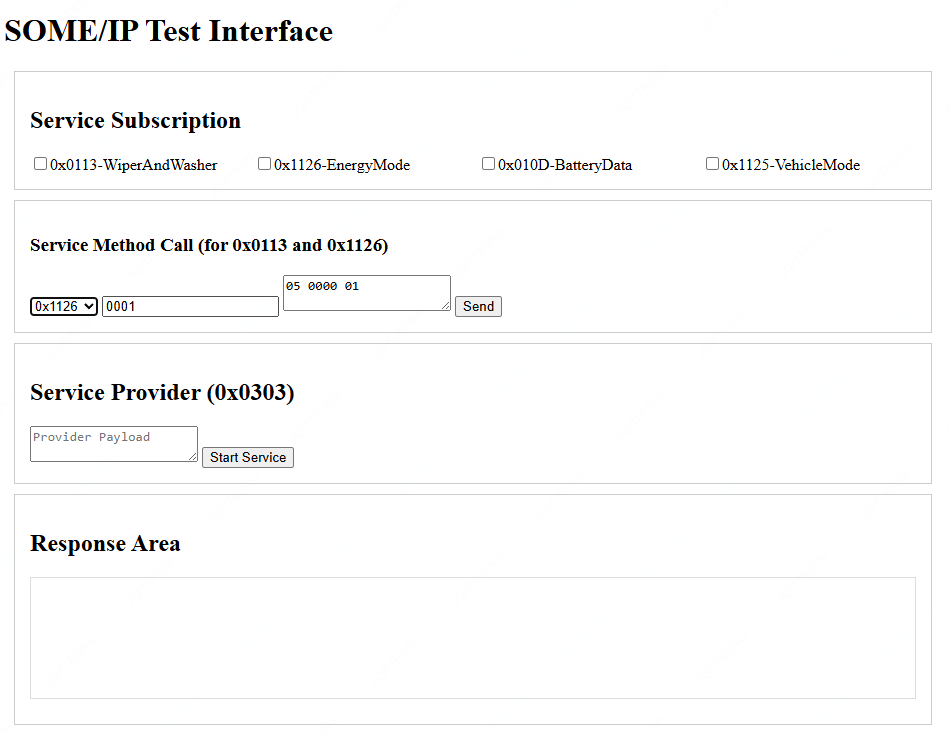
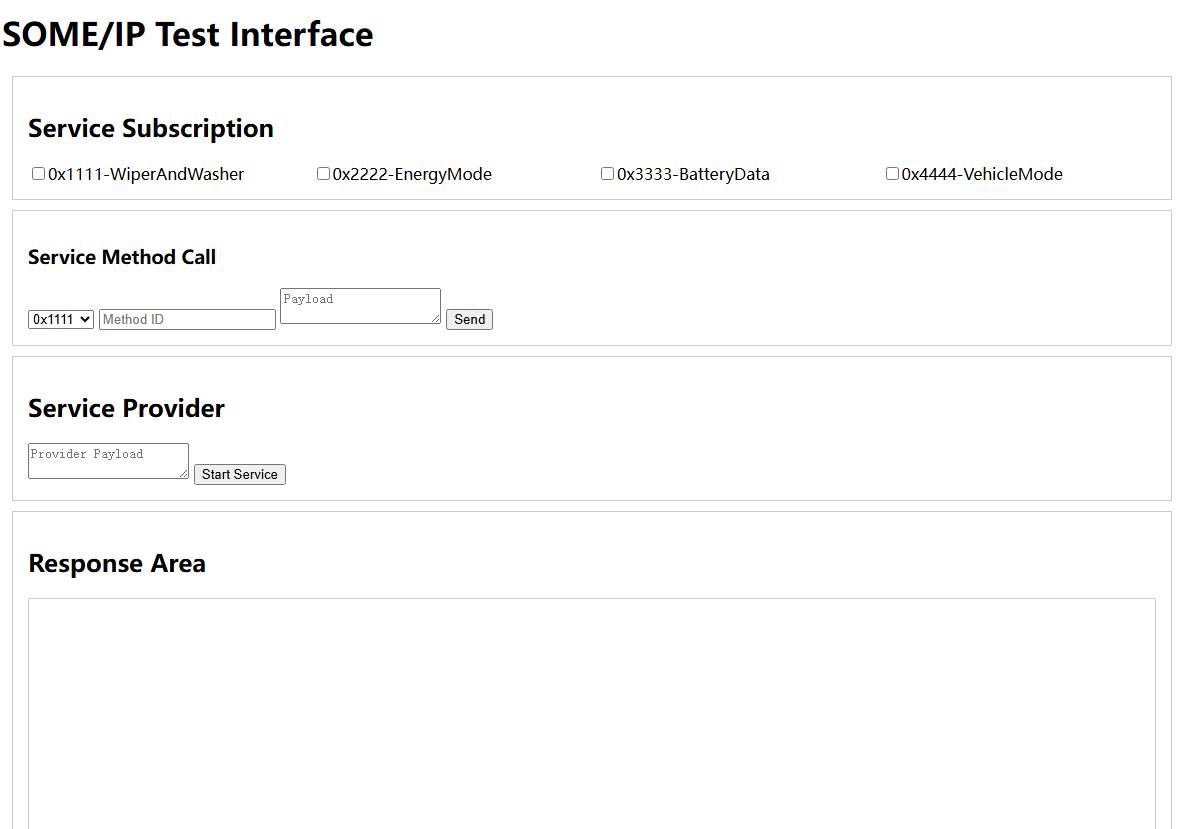
update readme

diff --git a/templates/index.html b/templates/index.html
@@ -34,23 +34,23 @@
     <div class="panel">
         <h2>Service Subscription</h2>
         <div class="service-grid">
-            <div><input type="checkbox" id="0x0113" value="0x0113"><label for="0x0113">0x0113-WiperAndWasher</label></div>
-            <div><input type="checkbox" id="0x1126" value="0x1126"><label for="0x1126">0x1126-EnergyMode</label></div>
-            <div><input type="checkbox" id="0x010D" value="0x010D"><label for="0x010D">0x010D-BatteryData</label></div>
-            <div><input type="checkbox" id="0x1125" value="0x1125"><label for="0x1125">0x1125-VehicleMode</label></div>
+            <div><input type="checkbox" id="0x1111" value="0x1111"><label for="0x1111">0x1111-WiperAndWasher</label></div>
+            <div><input type="checkbox" id="0x2222" value="0x2222"><label for="0x2222">0x2222-EnergyMode</label></div>
+            <div><input type="checkbox" id="0x3333" value="0x3333"><label for="0x3333">0x3333-BatteryData</label></div>
+            <div><input type="checkbox" id="0x4444" value="0x4444"><label for="0x4444">0x4444-VehicleMode</label></div>
             <!-- Add all other services -->
         </div>
     </div>
 
     <div id="methodPanel" class="panel">
-        <h3>Service Method Call (for 0x0113 and 0x1126)</h3>
+        <h3>Service Method Call</h3>
         <form id="methodForm">
             <select id="serviceSelect">
-                <option value="0x0113">0x0113</option>
-                <option value="0x1126">0x1126</option>
-                <option value="0x010D">0x010D</option>
-                <option value="0x1125">0x1125</option>
-                <option value="0x0114">0x0114</option>
+                <option value="0x1111">0x1111</option>
+                <option value="0x2222">0x2222</option>
+                <option value="0x3333">0x3333</option>
+                <option value="0x4444">0x4444</option>
+                <option value="0x5555">0x5555</option>
             </select>
             <input type="text" id="methodId" placeholder="Method ID">
             <textarea id="payload" placeholder="Payload"></textarea>
@@ -59,7 +59,7 @@
     </div>
 
     <div class="panel">
-        <h2>Service Provider (0x0303)</h2>
+        <h2>Service Provider</h2>
         <form id="providerForm">
             <textarea id="providerPayload" placeholder="Provider Payload"></textarea>
             <button type="submit">Start Service</button>
@@ -108,13 +108,13 @@
                 });
             });
 
-            // Auto-fill Method ID and Payload for 0x1126
+            // Auto-fill Method ID and Payload for 0x2222
             document.getElementById('serviceSelect').addEventListener('change', function() {
                 const serviceSelect = document.getElementById('serviceSelect');
                 const methodIdInput = document.getElementById('methodId');
                 const payloadInput = document.getElementById('payload');
 
-                if (serviceSelect.value === '0x1126') {
+                if (serviceSelect.value === '0x2222') {
                     methodIdInput.value = '0001';
                     payloadInput.value = '05 0000 01';
                 } else if (serviceSelect.value === '0x0114') {

diff --git a/someip_midware.py b/someip_midware.py
@@ -31,9 +31,7 @@ class EventGroupReceiver(SOMEIPDatagramProtocol):
         """
         called when a well-formed SOME/IP datagram was received
         """
-        if someip_message.service_id == 0x010D:        
-            pass
-        if someip_message.service_id == 0x1126:
+        if someip_message.message_type  == 0x80:
             print('DEBUG POINT: Response = '+ someip_message.payload.hex())
             self.socketio.emit('log_message', {'message': someip_message.payload.hex()})
 

diff --git a/README.md b/README.md
@@ -23,21 +23,21 @@ This project provides a web-based HTML interface for SOME/IP message sending and
 ## 功能介绍
 
 ### 1. 页面截图
-![Web Interface](images/index.PNG)
+![Web Interface](images/index.png)
 
 ### 2. 服务订阅区
 - **功能**：允许用户通过复选框订阅特定的 SOME/IP 服务。
 - **支持的服务 ID**：
-  - 0x0113 (WiperWasher)
-  - 0x1126 (EgySaveModeSts)
-  - 0x010D (LowBattData)
-  - 0x1125 (VehModSts)
+  - 0x1111 (WiperWasher)
+  - 0x2222 (EgySaveModeSts)
+  - 0x3333 (LowBattData)
+  - 0x4444 (VehModSts)
 
 ### 3. 方法调用区
 - **功能**：允许用户发送方法调用请求。
 - **支持的服务 ID 和方法 ID**：
-  - 0x0113: Method ID `0001`，Payload `05 0000 01`
-  - 0x1126: Method ID `0001`，Payload `05 0000 01`
+  - 0x1111: Method ID `0001`，Payload `05 0000 01`
+  - 0x2222: Method ID `0001`，Payload `05 0000 01`
 
 ### 4. 响应显示区
 - **功能**：实时显示从 SOME/IP 服务接收到的响应数据。
